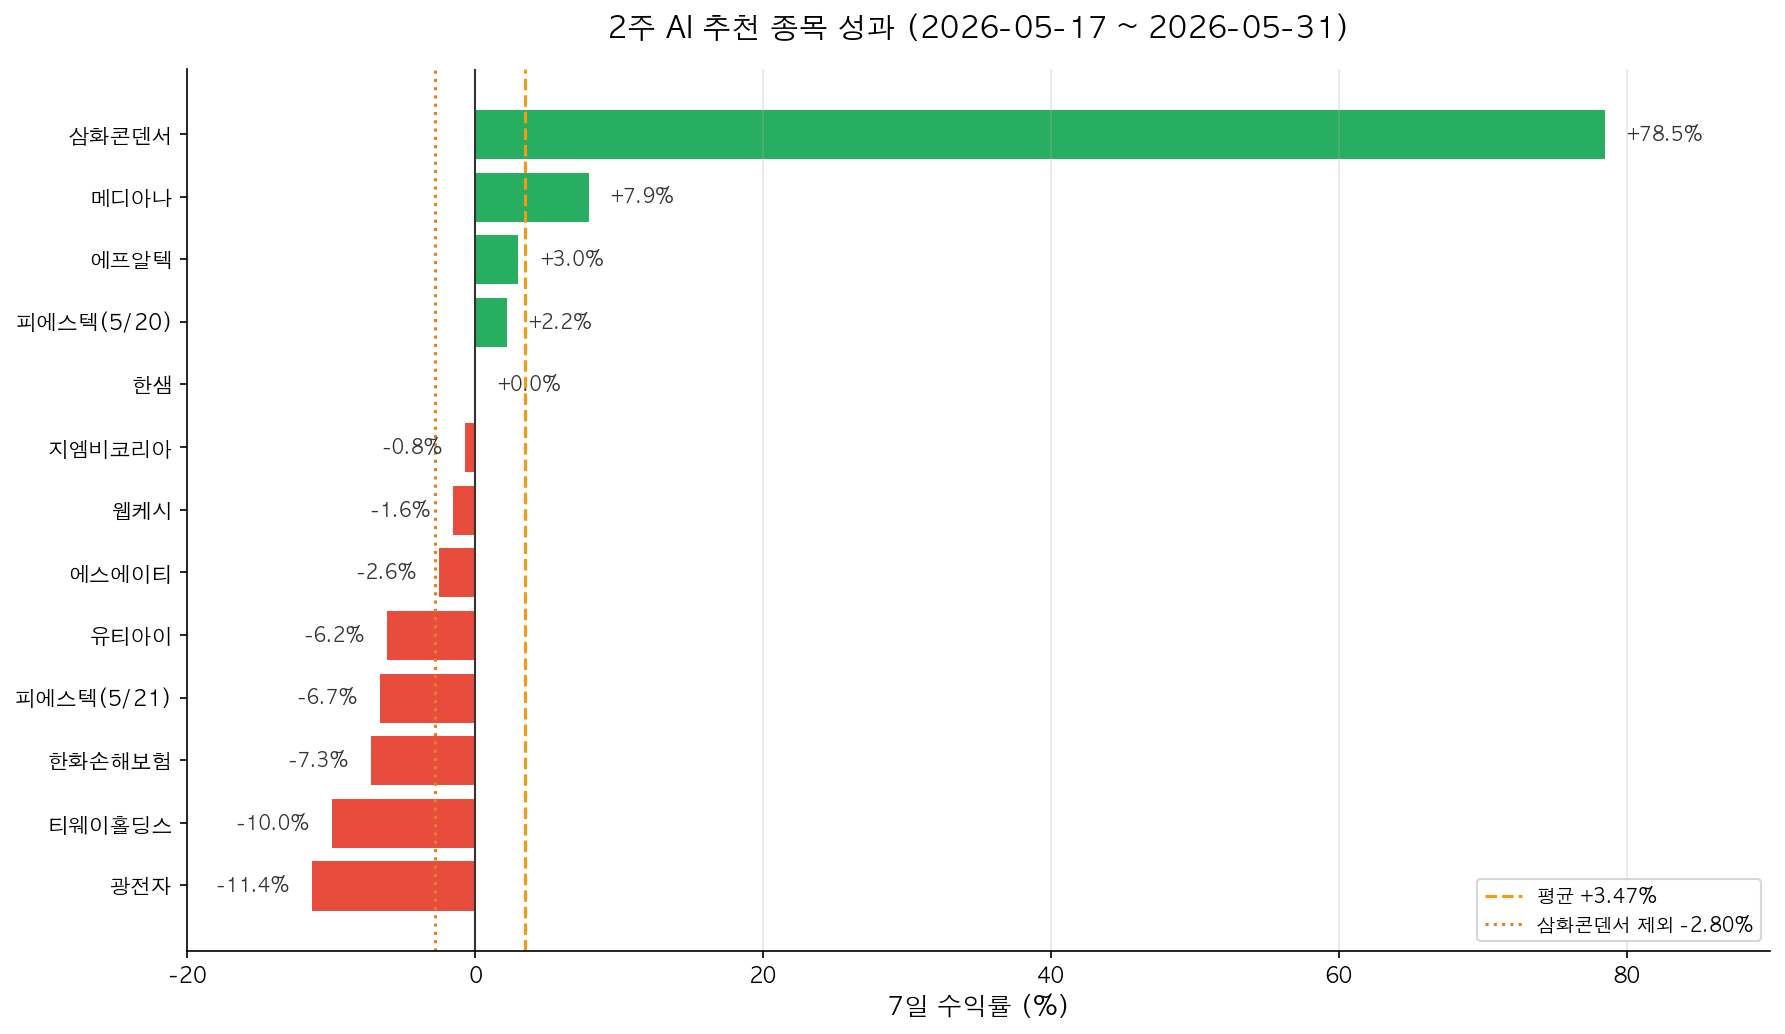
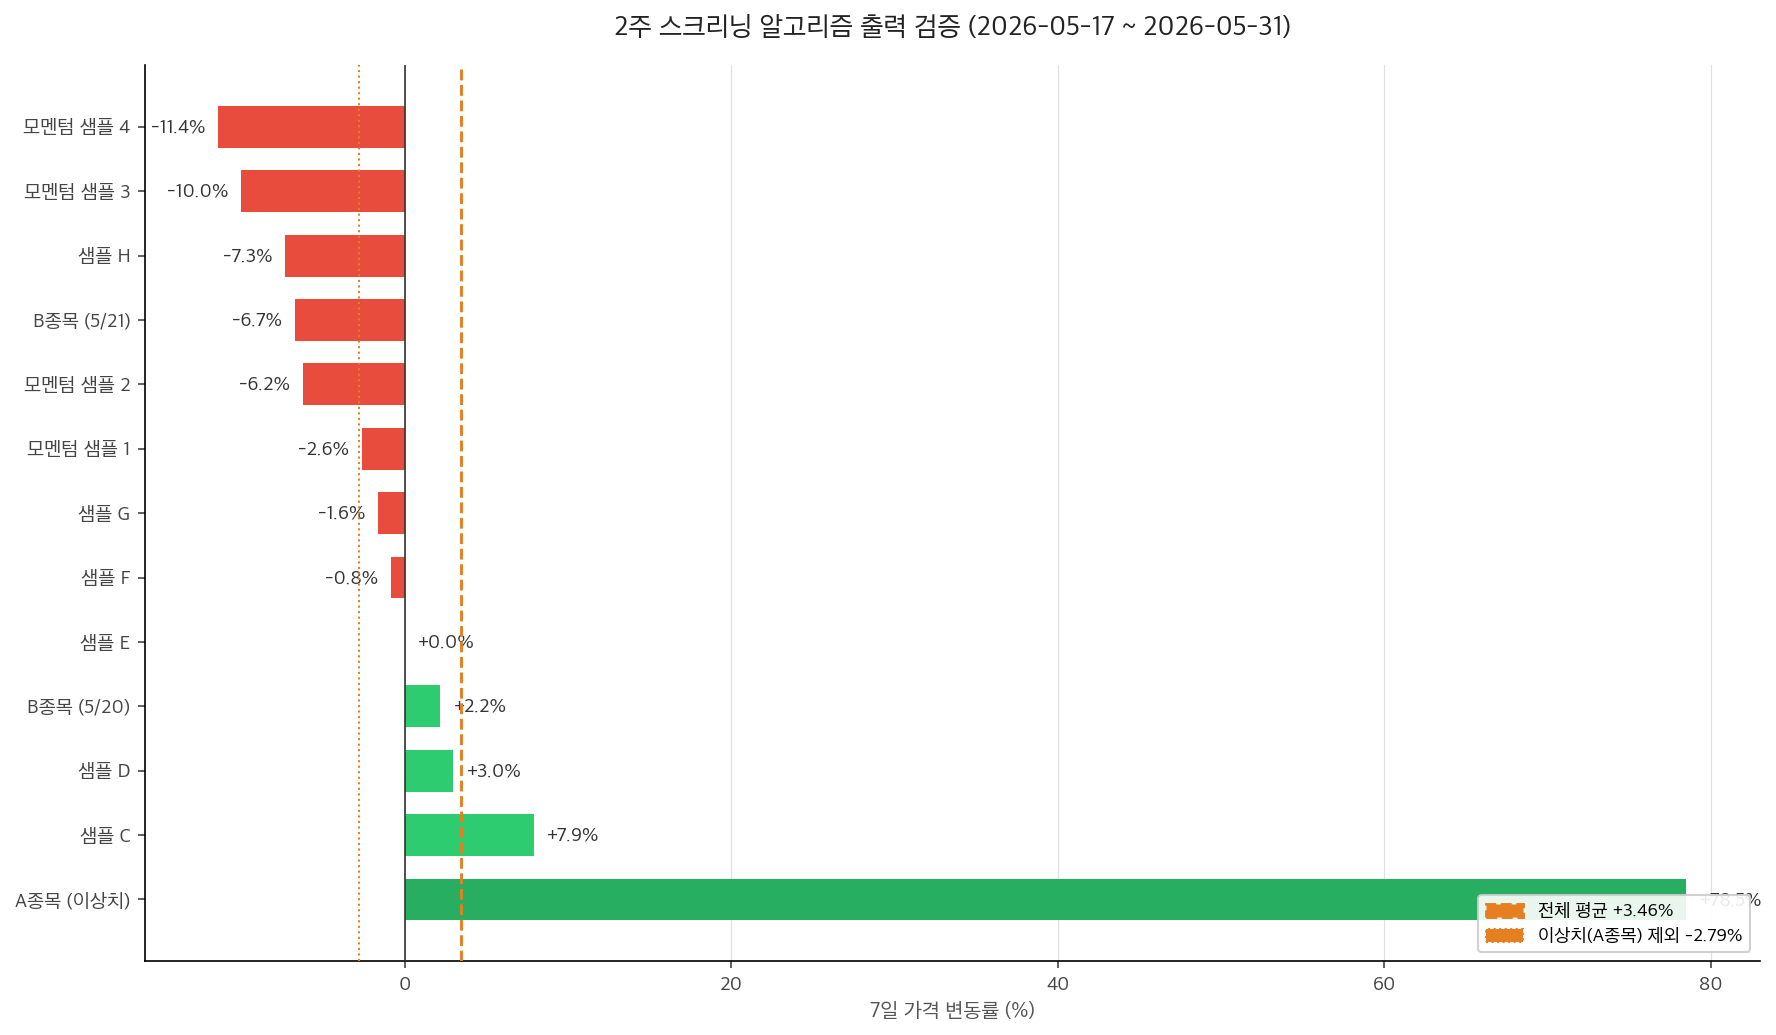
fix: 2026-06-01 Dev 글 YMYL 리스크 제거 — 종목명 익명화 및 용어 교체

diff --git a/src/content/posts/2026-06-01-dev-001.md b/src/content/posts/2026-06-01-dev-001.md
@@ -1,107 +1,109 @@
 ---
-title: "AI 주식 추천 시스템 중간 점검 — 2주 성과와 솔직한 진단"
-summary: "13건 추천, 승률 30%, 평균 +3.47%. 숫자만 보면 나쁘지 않다. 그런데 한 종목을 빼면 얘기가 완전히 달라진다."
+title: "파이썬 스크리닝 알고리즘 2주 출력 검증 — 이상치 하나가 전체 통계를 뒤집었다"
+summary: "13건의 시그널 중 적중률 30%, 평균 변동률 +3.47%. 숫자만 보면 나쁘지 않다. 그런데 이상치 하나를 빼면 얘기가 완전히 달라진다."
 date: 2026-06-01
 category: "Dev & Quant"
 image: "/images/2026-06-01-dev-001/hero.jpg"
 ---
 
-주식 시장에서 매일 아침 조건에 맞는 종목을 자동으로 선별하는 시스템을 만들고 있습니다. NAS에 올라간 AI가 RSI, 거래량, 볼린저밴드, 수급 데이터를 종합 분석하고, 기준을 충족하는 종목을 추려내는 구조입니다. 시스템이 실제로 쓸만한지 검증하는 중이고, 오늘은 2주치 결과를 직접 들여다봤습니다.
+> **[핵심 요약]** 자체 개발한 스크리닝 알고리즘의 2주 출력 데이터를 분석했다. 특정 이상치(Outlier) 하나가 전체 평균 통계를 왜곡하고 있었고, 이를 제외하면 기술적 지표 단독 시그널의 구조적 한계가 명확하게 드러난다. 수급 교차검증 필터와 시장 지수 조건 추가가 다음 리팩터링 방향이다.
 
-> ⚠ 이 글은 AI 시스템 개발 기록입니다. 특정 종목의 매수·매도를 권유하는 글이 아니며, 투자 판단의 책임은 전적으로 본인에게 있습니다.
+NAS에서 매일 아침 RSI, 거래량, 볼린저밴드, 수급 데이터를 종합 분석해 기준을 충족하는 항목을 자동으로 필터링하는 알고리즘을 만들고 있습니다. 시스템이 실제로 쓸만한지 검증하는 중이고, 오늘은 2주치 출력 데이터를 직접 들여다봤습니다.
 
-## 2주 결과 요약
+> ⚠ 이 글은 알고리즘 개발 기록입니다. 특정 종목의 매수·매도를 권유하는 글이 아니며, 투자 판단의 책임은 전적으로 본인에게 있습니다.
+
+## 2주 출력 데이터 요약
 
 | 항목 | 값 |
 |------|-----|
 | 분석 기간 | 2026-05-17 – 2026-05-31 |
-| 총 추천 건수 | 13건 |
-| 승률 | 30% (4/13건) |
-| 평균 수익률 | +3.47% |
+| 총 시그널 건수 | 13건 |
+| 적중률 (단순 방향성 기준) | 30% (4/13건) |
+| 평균 가격 변동률 | +3.47% |
 
 숫자만 보면 나쁘지 않다. 그런데 이 숫자에는 함정이 있다.
 
-## 삼화콘덴서 한 종목이 전체를 가리고 있다
+## 이상치(Outlier) 하나가 전체 통계를 가리고 있다
 
-삼화콘덴서가 +78.5%를 기록했다. 이 한 건을 빼면 12건 평균은 **-2.8%**, 승률은 25%로 떨어진다.
+A종목이 +78.5% 변동을 기록했다. 이 한 건을 빼면 나머지 12건 평균은 **-2.8%**, 적중률은 25%로 떨어진다.
 
-| 구분 | 건수 | 승률 | 평균 수익률 |
+| 구분 | 건수 | 적중률 | 평균 변동률 |
 |------|------|------|------------|
 | 전체 | 13건 | 30% | +3.47% |
-| 삼화콘덴서 제외 | 12건 | 25% | **-2.80%** |
+| 이상치(A종목) 제외 | 12건 | 25% | **-2.80%** |
 
-![2주 AI 추천 종목 성과](/images/2026-06-01-dev-001/chart_performance.png)
+![2주 알고리즘 출력 결과](/images/2026-06-01-dev-001/chart_performance.png)
 
-결과를 보고 처음 든 생각은 "운이 좋았다"가 아니었다. 오히려 "이게 어떻게 추천됐길래 이만큼 올랐지?"였다.
+처음 든 생각은 "운이 좋았다"가 아니었다. 오히려 "이게 어떻게 감지됐길래 이만큼 변동이 났지?"였다.
 
-다른 모멘텀 종목들과 비교해봤다.
+다른 모멘텀 케이스들과 비교해봤다.
 
-**실패한 모멘텀 종목들:**
+**오작동 케이스 — 기술 지표 단독 시그널:**
 
-| 종목 | 신호 | 결과 |
+| 샘플 | 감지 조건 | 변동 결과 |
 |------|------|------|
-| 에스에이티 | 골든크로스 + 거래량 급증 | -2.6% |
-| 유티아이 | 거래량 2.6배 + 볼린저밴드 돌파 | -6.2% |
-| 티웨이홀딩스 | RSI 75 + 거래량 7.4배 | -10.0% |
-| 광전자 | RSI 63 + 거래량 4.1배 | -11.4% |
+| 모멘텀 샘플 1 | 골든크로스 + 거래량 급증 | -2.6% |
+| 모멘텀 샘플 2 | 거래량 2.6배 + 볼린저밴드 돌파 | -6.2% |
+| 모멘텀 샘플 3 | RSI 75 + 거래량 7.4배 | -10.0% |
+| 모멘텀 샘플 4 | RSI 63 + 거래량 4.1배 | -11.4% |
 
-**삼화콘덴서:**
+**A종목(이상치):**
 - 거래량 5배 급증 + **외인·기관 양매수 동시 유입**
 
-차이가 보인다. 실패한 종목들은 전부 기술적 신호만 있었다. 삼화콘덴서는 거기에 외인과 기관의 수급이 동시에 확인됐다. 거래량 급증이 실제 매수세인지 익절 물량인지를 수급 데이터가 증명해준 셈이다.
+차이가 보인다. 오작동 케이스들은 전부 기술적 신호만 있었다. A종목은 거기에 외인과 기관의 수급이 동시에 확인됐다. 거래량 급증이 실제 매수세인지 익절 물량인지를 수급 데이터가 증명해준 셈이다.
 
-시스템이 우연히 좋은 종목을 잡은 게 아니라, **수급이 뒷받침된 모멘텀**이라는 조건이 작동했을 때 결과가 달랐다. 이게 핵심 단서다.
+> **기술적 신호에 수급 교차검증이 붙었을 때 결과가 달랐다.** 이게 핵심 단서다.
 
-## 피에스텍 케이스 — 같은 종목, 다른 결과
+## B종목 케이스 — 같은 항목, 다른 결과
 
-이번 데이터에서 가장 흥미로운 케이스다. 피에스텍이 2일 연속 추천됐는데 결과가 정반대였다.
+이번 데이터에서 가장 흥미로운 케이스다. B종목이 2일 연속 감지됐는데 결과가 정반대였다.
 
-| 추천일 | 신호 | 거래량 | 결과 |
+| 감지일 | 감지 조건 | 거래량 | 변동 결과 |
 |--------|------|--------|------|
 | 05-20 | 외인 연속 순매수 | 보통 | ✅ +2.2% |
 | 05-21 | RSI 14 (극단적 과매도) | **0.0배** | ❌ -6.7% |
 
-05-21 추천을 보면 RSI가 14다. 극단적으로 과매도 상태인데, 거래량이 0.0배다. 아무도 사지 않는 상태에서 RSI만 낮다는 건 반등 가능성이 아니라 그냥 계속 떨어지고 있다는 신호다.
+05-21 케이스를 보면 RSI가 14다. 극단적으로 과매도 상태인데, 거래량이 0.0배다. 아무도 사지 않는 상태에서 RSI만 낮다는 건 반등 가능성이 아니라 그냥 계속 하락 중이라는 신호다.
 
-시스템이 RSI 과매도를 "지금 싸니까 곧 오른다"로 해석하는데, 거래량이 없으면 그건 그냥 낙하 중인 종목이다. 05-20에는 외인 매수라는 수급 확인이 있었고, 05-21에는 아무것도 없었다.
+알고리즘이 RSI 과매도를 "지금 낮으니까 곧 반등"으로 해석하는데, 거래량이 없으면 그건 그냥 낙하 중인 데이터다. 05-20에는 외인 매수라는 수급 확인이 있었고, 05-21에는 아무것도 없었다.
 
-삼화콘덴서와 피에스텍 케이스가 같은 말을 하고 있다.
+A종목과 B종목 케이스가 같은 말을 하고 있다.
 
-> **기술적 신호만으로는 부족하다. 수급 또는 거래량으로 확인이 돼야 의미가 있다.**
+> **기술적 신호만으로는 부족하다. 수급 또는 거래량으로 교차검증이 돼야 의미 있는 시그널이다.**
 
-## 시그널 유형별 성과
+## 시그널 유형별 출력 결과
 
 ![시그널 유형별 성과 비교](/images/2026-06-01-dev-001/chart_signals.png)
 
-| 신호 유형 | 건수 | 승률 | 평균 수익률 |
+| 시그널 유형 | 건수 | 적중률 | 평균 변동률 |
 |-----------|------|------|------------|
 | RSI 과매도 (RSI ≤ 30) | 6건 | 33% | +0.3% |
 | 모멘텀 (거래량/볼린저밴드) | 5건 | 20% | +9.7% |
-| 모멘텀 (삼화콘덴서 제외) | 4건 | 0% | **-7.6%** |
+| 모멘텀 (이상치 제외) | 4건 | 0% | **-7.6%** |
 | 수급 (외인/기관) | 2건 | 50% | -2.6% |
 
-모멘텀 신호가 가장 위험하다. 삼화콘덴서 없으면 전패에 평균 -7.6%다. RSI 과매도는 큰 손실이 없다는 게 그나마 장점이지만, 거래량 없이 RSI만 낮은 종목을 잡는 구조는 고쳐야 한다.
+모멘텀 시그널이 가장 위험하다. 이상치를 빼면 전패에 평균 -7.6%다. RSI 과매도는 큰 손실이 없다는 게 그나마 장점이지만, 거래량 없이 RSI만 낮은 항목을 잡는 구조는 수정이 필요하다.
 
-## 시스템 설계의 근본 문제
+## 알고리즘 설계의 구조적 문제
 
 두 가지 구조적 문제를 확인했다.
 
-**문제 1: 수급 확인 없는 기술적 신호**
+**문제 1: 수급 교차검증 없는 기술적 시그널**
 
-거래량 급증이 매수세인지 매도세인지 구분하지 않는다. RSI 과매도가 반등 기대인지 추락 중인지 구분하지 않는다. 삼화콘덴서가 알려준 것처럼, 기술적 신호에 수급 확인이 붙었을 때 결과가 달라진다.
+거래량 급증이 매수세인지 매도세인지 구분하지 않는다. RSI 과매도가 반등 기대인지 추락 중인지 구분하지 않는다. A종목 케이스가 보여준 것처럼, 기술적 신호에 수급 교차검증이 붙었을 때 결과가 달라진다.
 
-**문제 2: 시장 전체 흐름 무시**
+**문제 2: 시장 전체 흐름 미반영**
 
-5월 19–21일은 시장 전반이 약세였다. 개별 종목 신호만 보고 추천을 내보내는 구조에서는 이런 구간을 걸러낼 방법이 없다.
+5월 19–21일은 시장 전반이 약세였다. 개별 시그널만 보고 출력을 내보내는 구조에서는 이런 구간을 걸러낼 방법이 없다.
 
-## 다음에 고칠 것들
+## 다음 리팩터링 항목
 
-1. **모멘텀 신호에 수급 조건 추가** — 거래량 급증 시 외인 또는 기관 순매수 확인 필수
-2. **RSI 과매도에 거래량 하한선 추가** — 거래량 0.5배 미만이면 과매도도 무시
-3. **RSI 상한선 추가** — RSI 60 이상이면 모멘텀 신호 차단
-4. **시장 지수 필터** — 코스피/코스닥 -0.5% 이하 하락일 때 추천 보류
+1. **모멘텀 시그널에 수급 조건 추가** — 거래량 급증 시 외인 또는 기관 순매수 교차확인 필수
+2. **RSI 과매도에 거래량 하한선 추가** — 거래량 0.5배 미만이면 RSI 과매도 시그널 무시
+3. **RSI 상한선 추가** — RSI 60 이상이면 모멘텀 시그널 차단
+4. **시장 지수 필터** — 코스피/코스닥 -0.5% 이하 하락일 때 출력 보류
 
-삼화콘덴서가 보여준 "수급 확인된 모멘텀"을 시스템이 일관되게 잡을 수 있게 만드는 게 목표다. 다음 2주 후에 같은 방식으로 다시 점검할 예정이다.
+A종목이 보여준 "수급 교차검증이 확인된 모멘텀"을 알고리즘이 일관되게 잡을 수 있게 만드는 게 목표다. 다음 2주 후에 같은 방식으로 다시 검증할 예정이다.
 
 ---
-*본 글은 AI 시스템 개발 기록이며 투자 추천이 아닙니다. 투자 판단의 책임은 본인에게 있습니다.*
+*본 글은 알고리즘 개발 기록이며 투자 추천이 아닙니다. 투자 판단의 책임은 본인에게 있습니다.*
